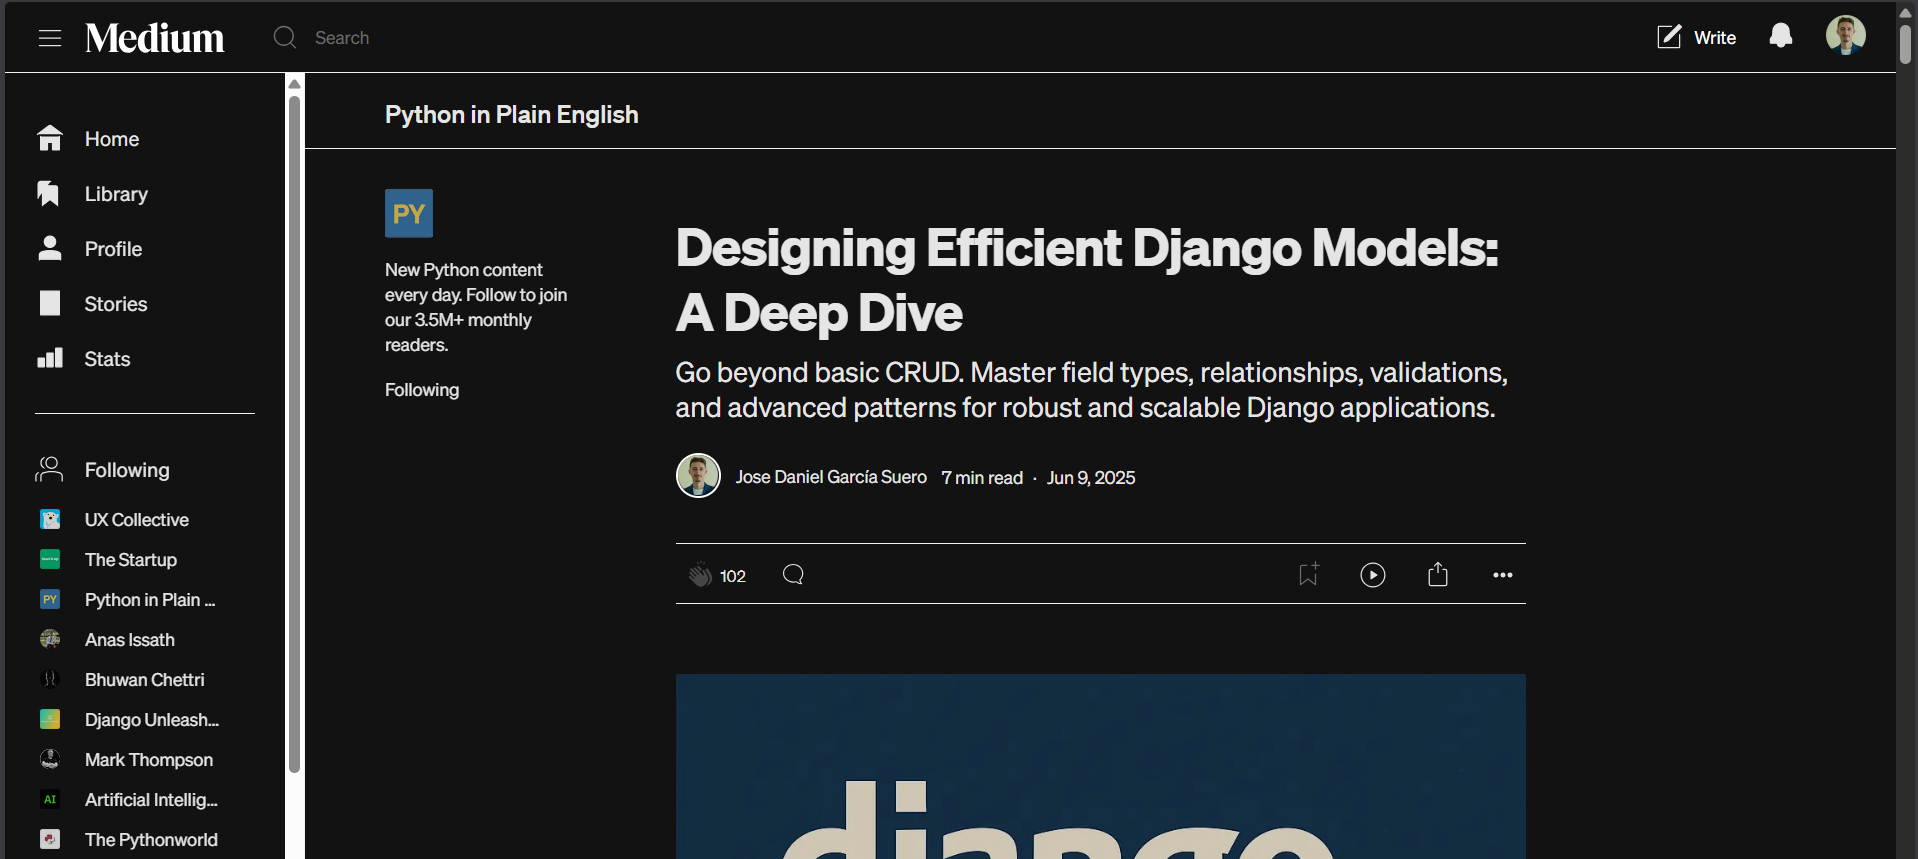
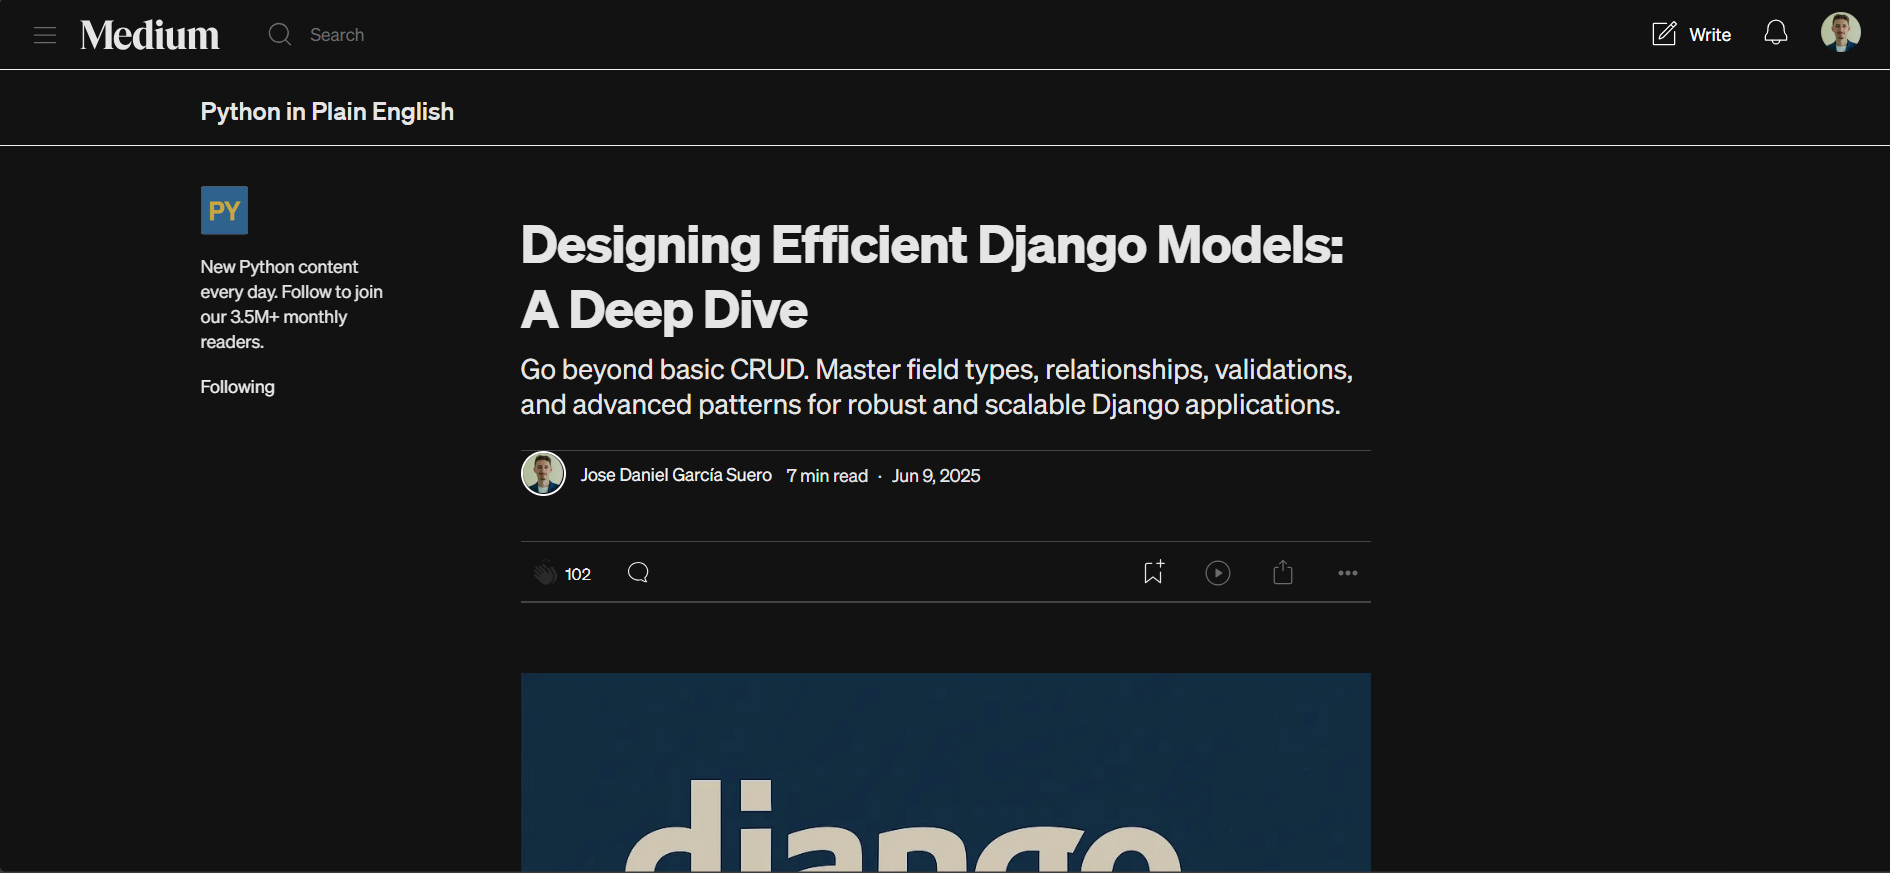
Fix in post bar

diff --git a/content.js b/content.js
@@ -299,6 +299,24 @@ function applyDarkMode(enabled) {
         .eb.dy.eu.et, .eb.dy.eu.et path {
           stroke: #ffffff !important;
         }
+
+        /* Story Actions Bar (Claps, Comments, Share) */
+        .ac.cw.ko.kp.kq.kr.ks.kt.ku.kv.kw.kx.ky.kz.la.lb.lc.ld,
+        .ac.cw, [data-testid="storyActionsBar"] {
+          background-color: transparent !important;
+          background: transparent !important;
+          box-shadow: none !important;
+          border-top: 1px solid #444 !important;
+          border-bottom: 1px solid #444 !important;
+          border-left: none !important;
+          border-right: none !important;
+        }
+
+        /* Ensure claps and responses icons/text are visible */
+        .pw-multi-vote-count button, .mv path, .ax path, .mv {
+          color: #eeeeee !important;
+          fill: #eeeeee !important;
+        }
       `;
       document.documentElement.appendChild(style);
     }
